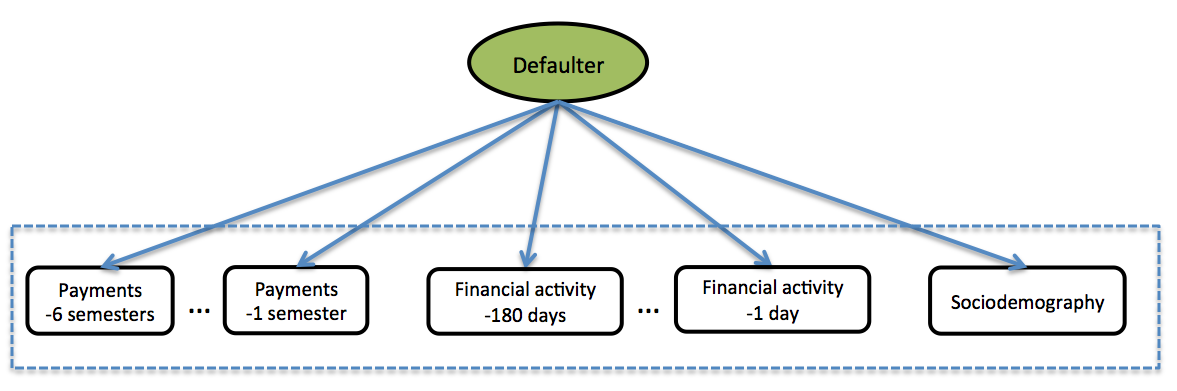
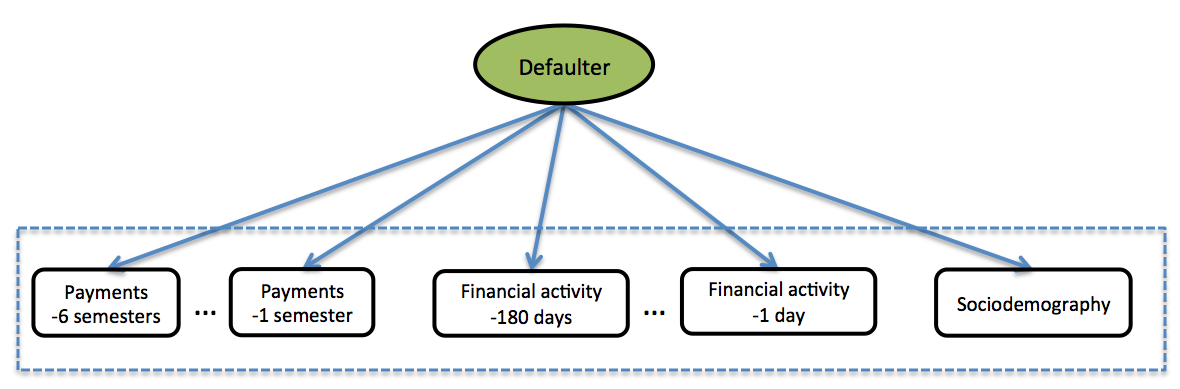
Some more changes in Cajamar. Also some minor modifications by Hanen and Ana :)

diff --git a/doc/D2.1_AMIDSTModelingFramework/CajaMarModels.tex b/doc/D2.1_AMIDSTModelingFramework/CajaMarModels.tex
@@ -34,8 +34,9 @@ Our objective is to \textit{daily} update the risk of default for every bank cus
 
 \begin{figure}[htbp]
 \centering
-\includegraphics[scale=0.65]{figures/CajaMarTimeLine}
+\includegraphics[scale=0.4]{figures/CajaMarTimeLine}
 \caption{\label{Figure:CajaMarTimeLine}Time-line showing the generation of the evaluation (in green) and training (in red) data sets. $t$ refers to the present time and $k$ corresponds to time $t-2$\ years.}
+
 \end{figure}
 
 \begin{itemize}
@@ -110,7 +111,7 @@ Figure \ref{Figure:CajaMarStatic} shows the general structure of the static mode
 
 \begin{figure}[ht!]
   \centering
-\includegraphics[scale=0.5]{./figures/CajaMarModel0}
+\includegraphics[scale=0.35]{./figures/CajaMarModel0}
 \caption{\label{Figure:CajaMarStatic}Global structure of the static model. Each white box represents a set of variables for a particular time. The green node on top is the class variable \emph{Defaulter} that represents the probability that a customer will default within the next two years. } 
 \label{fig:CajamarStaticModel}
 \end{figure}
@@ -147,10 +148,11 @@ In summary, the process of building the static model consists of the following s
 
 In this second approach, we will consider the dynamic structure of the problem because the behaviour of the customers evolves over time (e.g., the account balance is continuously changing from one month to another, the incomes, etc.) as well as their class labels either defaulters or non-defaulters (e.g., customers can be creditworthy and, after some time, go bankrupt because they have lost their job). 
 
-Figure~\ref{fig:global_temp} represents the global idea of the proposed dynamic model. It can be compactly represented by a DBN made of components as the one displayed in 
-Figure~\ref{fig:component}. $D_t$ represents the class variable at time slice $t$ (i.e., defaulting or non-defaulting client). Each feature variable with a clear dynamic component at time $t$, denoted as $X_t$, is linked to the same variable at time $t+1$, $X_{t+1}$. Although this is a reasonable assumption for most of the variables, this first Markov order relationship however might prove insufficient for some of the variables. Figure~\ref{fig:CajamarCorrelogramsAndPartial} show a partial correlogram and a correlogram for a continuous predictive variable (see Section~\ref{SubSubSection:StructuralAsumptions})\textcolor{red}{(include label in preliminaries section)}. The partial correlogram drop to almost zero for a lag equal to $2$, making a first Markov order assumption reasonable. However, a higher order could also rise from data, meaning that even earlier samples still could have an influence on the current sample given the previous one. 
+Figure~\ref{fig:global_temp} represents the global idea of the proposed dynamic model. Each of the defaulter variable at time $t$ (from $-180$ to $-1$) represents whether a customer will default in the following 2 years from $t$. This model can be compactly represented by a DBN made of components as the one displayed in 
+Figure~\ref{fig:component}. $D_t$ represents the class variable at time slice $t$, i.e. being defaulter or non-defaulter within the next two years. Each feature variable with a clear dynamic component at time $t$, denoted as $X_t$, is linked to the same variable at time $t+1$, $X_{t+1}$. Although this is a reasonable assumption for most of the variables, this first Markov order relationship however might prove insufficient for some of the variables. Figure~\ref{fig:CajamarCorrelogramsAndPartial} show a partial correlogram and a correlogram for a continuous predictive variable (see Section~\ref{SubSubSection:StructuralAsumptions})\textcolor{red}{(include label in preliminaries section)}. The partial correlogram drop to almost zero for a lag equal to $2$, making a first Markov order assumption reasonable. However, a higher order could also rise from data, meaning that even earlier samples still could have an influence on the current sample given the previous one. 
 
-$\bar{X}_{t-1}$ and $\bar{X}_{t}$ represents memory variables at time $t$ and $t+1$ respectively. The inclusion of this type of variables might be necessary when we have evidence that first order Markov relationships does not hold and we need to account for information coming from the past. For instance, a memory variable representing the average value during the last $180$ days could capture these dependences. Another reason to include these memory variables is that, even though they are computed from others, they provide information that might be disperse in the data and hardly can be captured with other variables as a whole. Another reason to use memory variables is to avoid building complex dynamic models with high Markov orders.
+$\bar{X}_{t-1}$ and $\bar{X}_{t}$ represents memory variables at time $t$ and $t+1$ respectively. The inclusion of this type of variables might be necessary when we have evidence that first order Markov relationships does not hold and we need to account for information coming from the past. A memory variable representing the average number of transactions in the online banking system, or another with the accumulated payments using credit card, both during the last $180$ days, could, for instance, capture these past dependences. Another reason to include these memory variables is that, even though they are computed from others, they provide information that might be disperse in the data and hardly can be captured with other variables as a whole. Moreover, the use of memory variables avoids building complex dynamic models with high Markov orders. In principle, $\bar{X}_{t-1}$ and $\bar{X}_{t}$ are not connected over time as their dynamic component is somehow captured through the dynamic variables $X_{t}$ and $X_{t+1}$.
+
 
 \begin{figure}[htbp]
 \begin{center}
@@ -192,6 +194,7 @@ The solution is to use the indicator variable to condition the value of variable
 \end{figure}
 
 Finally, there exist some variables that, even though some dependences over time would be expected, they do not display any type of dynamic behaviour. For instance, this is the case for variables\footnote{For confidentiality reasons, the names of the variables cannot be revealed.} whose correlograms, shown in Figure \ref{fig:cajamarCorr}, indicate values very close to zero for all lags. These variables are hence not linked through consecutive time steps in the dynamic model, and are represented by $Y_{t+1}$ in Figure \ref{fig:component} together with the socio-demographic variables.
+
 
 \begin{figure}[h]
   \centering
